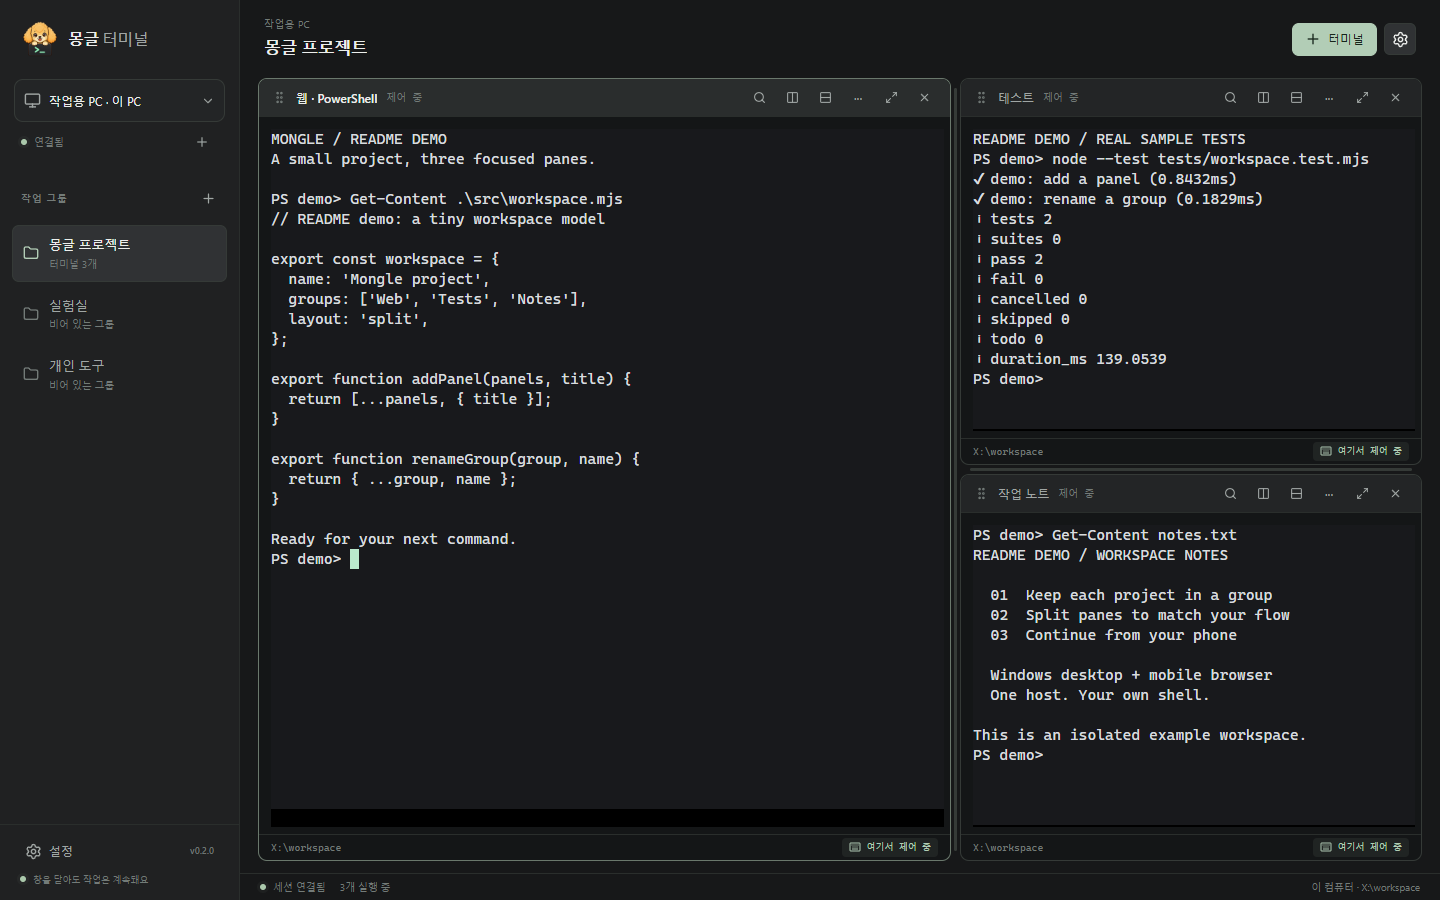
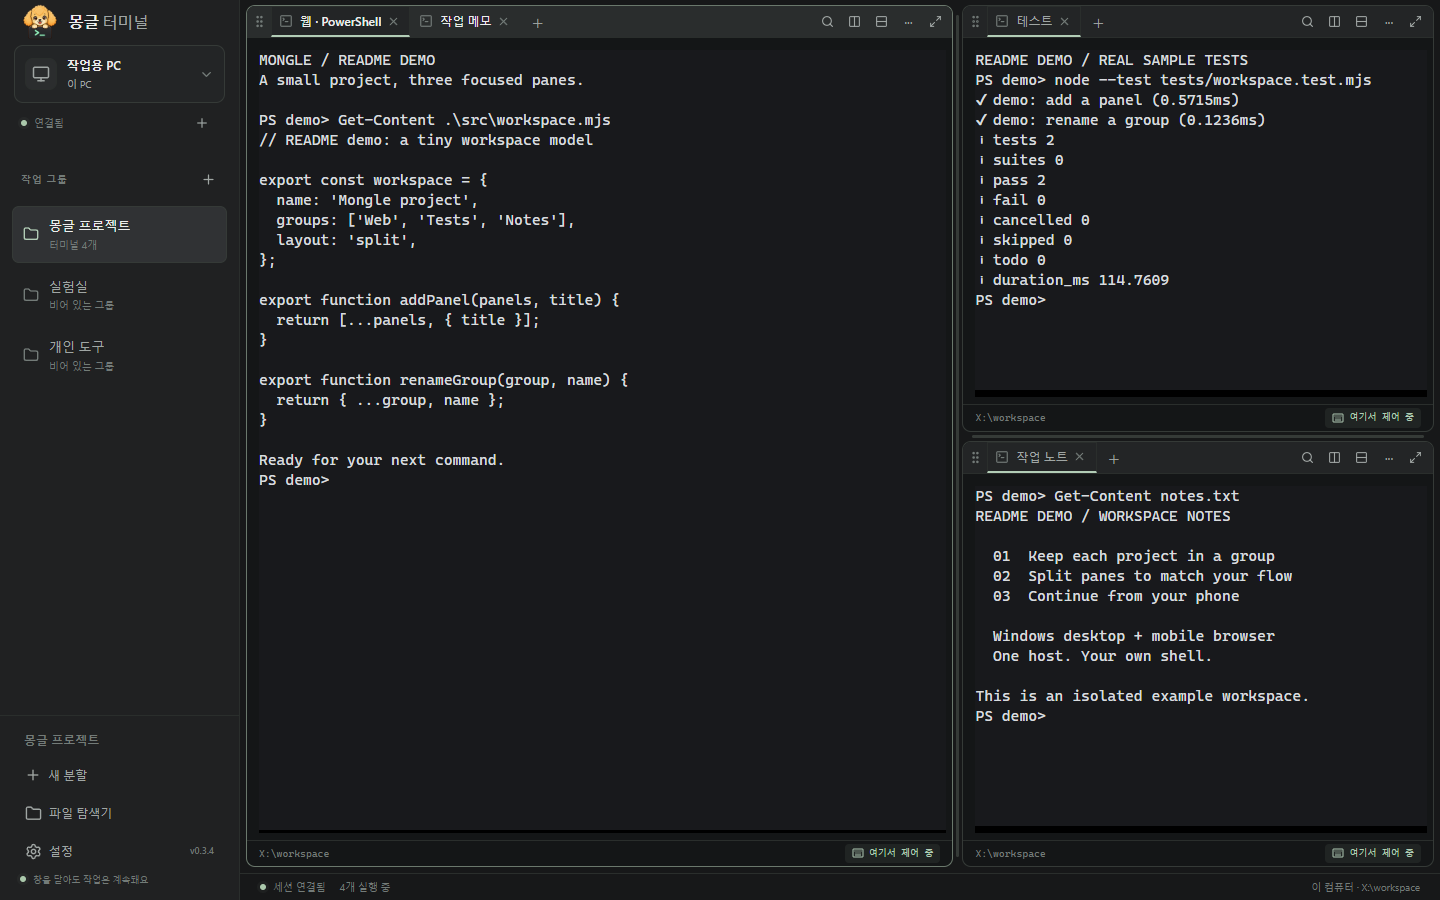
chore: prepare 0.3.4 terminal tabs release

diff --git a/scripts/capture-readme.ts b/scripts/capture-readme.ts
@@ -139,22 +139,36 @@ try {
   await renderDemo(desktop, 0, 'web');
   await renderDemo(desktop, 1, 'tests');
   await renderDemo(desktop, 2, 'notes');
+  // Show a real additional session inside the first split region.
+  const firstTerminal=host.getState().terminals[0],beforeTab=new Set(host.getState().terminals.map(terminal=>terminal.id));
+  await desktop.locator('.pane').first().getByRole('button',{name:'탭 추가',exact:true}).click();
+  await desktop.getByRole('button',{name:'터미널 열기',exact:true}).click();
+  await expect(desktop.locator('.pane')).toHaveCount(4);
+  const extraTab=host.getState().terminals.find(terminal=>!beforeTab.has(terminal.id));assert.ok(extraTab);
+  const extraPane=desktop.locator(`.pane[data-terminal-id="${extraTab.id}"]`);
+  await extraPane.getByText('여기서 제어 중',{exact:true}).waitFor();
+  await extraPane.locator(`#terminal-tab-${extraTab.id}`).dblclick();
+  await desktop.getByLabel('이름',{exact:true}).fill('작업 메모');await desktop.getByRole('button',{name:'저장',exact:true}).click();
+  await renderDemo(desktop,3,'notes');
+  await desktop.locator(`#terminal-tab-${firstTerminal.id}`).click();
+  await expect(desktop.getByRole('tablist')).toHaveCount(3);
+  await expect(desktop.locator('.pane:visible')).toHaveCount(3);
   for (const name of ['실험실', '개인 도구']) {
     await desktop.getByRole('button', { name: '새 그룹', exact: true }).click();
     await desktop.getByLabel('이름', { exact: true }).fill(name);
     await desktop.getByRole('button', { name: '저장', exact: true }).click();
     await desktop.getByRole('heading', { name, exact: true }).waitFor();
   }
-  await desktop.getByRole('button', { name: '몽글 프로젝트 터미널 3개', exact: true }).click();
+  await desktop.getByRole('button', { name: '몽글 프로젝트 터미널 4개', exact: true }).click();
   await desktop.locator('.pane').first().getByText('여기서 제어 중', { exact: true }).waitFor();
-  await desktop.locator('.pane').first().locator('.pane-title').click();
+  await desktop.locator(`#terminal-tab-${firstTerminal.id}`).click();
   await desktop.mouse.move(1400, 50);
   await desktop.evaluate(() => document.fonts.ready);
   await mkdir('docs/assets', { recursive: true });
   await desktop.screenshot({ path: 'docs/assets/desktop.png' });
 
   const mobile = await openSurface(true);
-  await mobile.getByRole('button', { name: '설정', exact: true }).first().click();
+  await mobile.locator('.workspace-header').getByRole('button', { name: '설정', exact: true }).click();
   await mobile.getByRole('button', { name: '어둡게', exact: true }).click();
   await mobile.getByRole('dialog', { name: '설정', exact: true }).getByLabel('터미널 글자 크기', { exact: true }).selectOption('12');
   await mobile.getByRole('button', { name: '설정 닫기' }).click();
@@ -169,7 +183,7 @@ try {
   }
   await mobile.screenshot({ path: 'docs/assets/mobile.png' });
   console.log('Captured real UI: docs/assets/desktop.png (1440×900), docs/assets/mobile.png (390×844).');
-  console.log('Three live shells; sample tests actually ran. No pixels or rendered app DOM edited.');
+  console.log('Four live shells in three split regions, including two tabs; sample tests actually ran. No pixels or rendered app DOM edited.');
 } catch (error) {
   const page = browser?.contexts().at(-1)?.pages().at(-1);
   if (page) {

diff --git a/docs/validation/public-release-0.3.4.md b/docs/validation/public-release-0.3.4.md
@@ -1,0 +1,25 @@
+# 0.3.4 영역별 탭·작업 공간 배포 검증
+
+기준일: 2026-10-01. 사용자 요청에 따라 영역별 터미널 탭·간결한 제목줄·개별 탭 드래그를 0.3.4로 배포한다. 현재 기록은 배포 준비 상태이며 공개 완료와 실제 업데이트 다운로드 결과는 수행 후 추가한다.
+
+- 기존 `codex/terminal-tabs` 작업 브랜치는 최신 `dev`에서 시작했고 별도 기능 커밋 5개를 포함한다. `main`에는 직접 커밋·push하지 않으며 기능 PR → `dev` → `main` 배포 PR을 사용한다.
+- 버전·잠금 파일·README·사용자 안내·CHANGELOG를 0.3.4로 맞췄다. 미배포 사용자 변경은 2026-10-01 항목으로 옮겼다. 공개 배포 저장소와 사용자 확인 후 설치하는 절차를 유지한다.
+- 이전 기능 검증은 [탭·상단 공간](terminal-tabs.md)에 기록했다. 관련 검사 16/16과 개발 Electron 조작 9개 통과, 사용자가 테스트한 개발 창에 셸·배치를 유지해 적용했다.
+
+## 배포 전 확인
+
+- 타입·빌드·배포 문서 검사가 통과했다. 전체 회귀는 Windows Job 제한 밖에서 **300개 중 289 통과·실패 0·선택 실행 11 생략**했다. 약 286초. `test-results/release-034/regression.log`.
+- `release-public-0-3-4`에 설치본·ZIP·blockmap·latest.yml·SHA256SUMS를 생성했다. 번들 네이티브 모듈·아이콘·ZIP 필수 파일·업데이트 메타데이터·해시 검사가 통과했다. `test-results/release-034/package.log`.
+- 실제 **0.3.4 패키지**의 네 방향 자기 영역 탭 분리·비활성 탭·다른 영역 병합·취소·영역 전체 이동·760px 창·새로고침·동일 셸 유지 **9개 시나리오가 통과**했다. OwnerPipe와 preload를 사용했으며 시험 창·호스트는 정상 종료했다. `test-results/e2e/public-release-034-tabs/result.json`.
+- 실제 패키지의 PowerShell 입력·취소·저장 후 정상 종료·재실행 복원 **1/1 통과**했다(47.2초). `test-results/e2e/public-release-034/full-exit-result.json`.
+- README 데스크톱·모바일 이미지를 새 UI로 촬영했다. 실제 격리 HostCore·Windows 셸·Chrome을 사용하고 첫 분할 영역에 탭 두 개를 표시한다. 예시 테스트 결과는 프로젝트 전체 회귀 결과와 구분한다. [촬영 조건](../assets/screenshots.md).
+
+패키지 시험 프로필은 TEMP 아래에 생성했으며 실사용 호스트·인증 정보·Tailscale Serve를 변경하지 않았다. 실제 구버전 NSIS 설치본의 교체·재실행을 수행한 검증은 아니다.
+
+## 공개 게시와 업데이트
+
+공개 설치본·ZIP·blockmap·latest.yml·SHA256SUMS는 검증 후 공개한다. 버전 태그는 배포 PR이 병합된 `main` 커밋을 가리키며, 공개 바이너리를 같은 버전으로 덮어쓰지 않는다.
+
+## 남은 범위
+
+사용자의 기존 NSIS 설치본 교체·실물 모바일·다른 PC 사용자 확인은 별도다. 자동 다운로드 후 사용자가 **설치 후 다시 시작**을 선택하고 작업 저장·정상 종료를 확인해야 설치된다. 공개 배포 자체가 실행 중인 모든 사용자 앱을 즉시 교체한다는 의미는 아니다.

diff --git a/docs/RELEASING.md b/docs/RELEASING.md
@@ -1,6 +1,6 @@
 # 배포와 자동 업데이트
 
-기준 버전: **0.3.3 Windows 미리보기**. 소스는 비공개로 유지하고 [배포 전용 공개 저장소](https://github.com/bokjk/mongle-terminal-releases/releases/latest)에 설치 파일과 업데이트 메타데이터를 게시한다. 코드 서명과 프로젝트의 오픈소스 라이선스는 아직 추가하지 않았다. 현재 공개 배포·다운로드 검증 결과는 [0.3.3 검증](validation/public-release-0.3.3.md), 공개 주소 전환 결과는 [0.3.1 검증](validation/public-release-0.3.1.md)을 확인한다.
+기준 버전: **0.3.4 Windows 미리보기**. 소스는 비공개로 유지하고 [배포 전용 공개 저장소](https://github.com/bokjk/mongle-terminal-releases/releases/latest)에 설치 파일과 업데이트 메타데이터를 게시한다. 코드 서명과 프로젝트의 오픈소스 라이선스는 아직 추가하지 않았다. 0.3.4 배포 준비·검증 결과는 [0.3.4 검증](validation/public-release-0.3.4.md), 이전 공개 배포는 [0.3.3 검증](validation/public-release-0.3.3.md), 공개 주소 전환 결과는 [0.3.1 검증](validation/public-release-0.3.1.md)을 확인한다.
 
 ## 배포 경로와 기존 사용자 전환
 
@@ -50,8 +50,8 @@ npm.cmd run typecheck
 npx.cmd tsx --test --test-concurrency=1 tests/**/*.test.ts
 node --import tsx scripts/package.ts --output release-candidate
 # CHANGELOG의 현재 버전 항목을 검토해 release-candidate/RELEASE-NOTES.md로 저장
-powershell.exe -NoProfile -File scripts/publish-release.ps1 -Version 0.3.3 -OutputDir release-candidate -CheckOnly
-powershell.exe -NoProfile -File scripts/publish-release.ps1 -Version 0.3.3 -OutputDir release-candidate
+powershell.exe -NoProfile -File scripts/publish-release.ps1 -Version 0.3.4 -OutputDir release-candidate -CheckOnly
+powershell.exe -NoProfile -File scripts/publish-release.ps1 -Version 0.3.4 -OutputDir release-candidate
 ```
 
 `--output`은 프로젝트 아래 `release` 또는 `release-<이름>`을 받는다. 실사용 앱이 있는 `release/`를 덮어쓰지 않는다. `package.ts`는 토큰이 있어도 게시하지 않는다. 게시 스크립트는 지정된 공개 저장소만 대상으로 삼아 체크섬을 확인하고 초안만 생성·갱신한다. 태그 워크플로의 artifact를 내려받았다면 동봉된 `RELEASE-NOTES.md`를 사용한다.

diff --git a/docs/assets/screenshots.md b/docs/assets/screenshots.md
@@ -1,10 +1,10 @@
 # README 화면 캡처
 
-`desktop.png`와 `mobile.png`는 몽글터미널 v0.2.0의 실제 웹 UI와 실제 Windows PowerShell을 사용해 촬영한 화면입니다. 픽셀 편집, 앱 화면의 DOM 교체, 상태 응답 조작은 하지 않았습니다.
+`desktop.png`와 `mobile.png`는 몽글터미널 v0.3.4의 실제 웹 UI와 실제 Windows PowerShell을 사용해 촬영한 화면입니다. 픽셀 편집, 앱 화면의 DOM 교체, 상태 응답 조작은 하지 않았습니다.
 
 | 이미지 | 캡처 조건 |
 | --- | --- |
-| `desktop.png` | Chrome 1440 × 900, 어두운 테마, 3개 터미널 분할 |
+| `desktop.png` | Chrome 1440 × 900, 어두운 테마, 3개 분할 영역·4개 셸. 첫 영역에 독립된 탭 두 개와 마지막 탭 뒤 + |
 | `mobile.png` | Chrome 모바일 에뮬레이션 390 × 844, 12px 글꼴, 같은 호스트의 첫 번째 터미널 |
 
 터미널 내용은 README를 위한 **예시 프로젝트**입니다. 화면의 테스트 2개는 예시 프로젝트의 패널 추가·그룹 이름 변경 함수를 실제 Node 테스트 러너로 실행한 결과이며, 몽글터미널 전체 회귀 검사 결과를 나타내지 않습니다. 모바일 이미지는 반응형 화면 설명용입니다. 실제 휴대폰, 소프트 키보드, Tailscale 통신을 검증했다는 의미는 아닙니다.
@@ -23,4 +23,4 @@ npx tsx scripts/capture-readme.ts
 
 PowerShell은 `-NoProfile`로 실행하고 명령 기록 저장을 끕니다. 기존 사용자 호스트·셸·인증 데이터·Tailscale 설정을 사용하지 않습니다. 종료 시 자신이 만든 브라우저와 호스트를 닫고, 소유한 드라이브 매핑과 이번 실행의 격리 폴더만 확인 후 제거합니다.
 
-2026-09-29에 재생성 스크립트 실행과 타입 검사를 통과했고, 두 이미지를 직접 열어 예시 출력·연결 상태·개인 정보 미노출을 확인했습니다.
+2026-10-01에 0.3.4 탭·상단 UI에 맞춰 재생성했습니다. 여러 탭이 있을 때 이름 변경 대상을 해당 탭 ID로 지정하고 모바일 설정은 표시된 상단 버튼으로 열도록 촬영 스크립트를 갱신했습니다. 검증 결과는 [0.3.4 배포 기록](../validation/public-release-0.3.4.md)에 정리합니다.

diff --git a/docs/IMPLEMENTATION-STATUS.md b/docs/IMPLEMENTATION-STATUS.md
@@ -1,6 +1,6 @@
 # 구현·검증 상태
 
-기준일: 2026-10-01 · 소스 버전: 0.3.3 · **0.3.3 Windows 미리보기 공개 배포 완료, 탭·상단 개선은 미배포**. 소스는 비공개로 유지하고 별도 공개 저장소에서 설치본을 배포한다. 기존 사용자 실행본을 자동으로 교체한 것은 아니며 0.3.0 이하는 한 번 수동 설치해야 한다. [0.3.3 배포·검증 결과](validation/public-release-0.3.3.md)
+기준일: 2026-10-01 · 소스 버전: 0.3.4 · **탭·상단 개선의 0.3.4 배포 준비 중, 공개 latest는 0.3.3**. 소스는 비공개로 유지하고 별도 공개 저장소에서 설치본을 배포한다. 기존 사용자 실행본을 자동으로 교체한 것은 아니며 0.3.0 이하는 한 번 수동 설치해야 한다. [0.3.4 배포·검증 결과](validation/public-release-0.3.4.md) · [이전 0.3.3 배포](validation/public-release-0.3.3.md)
 
 Windows 11 x64에서 실제 PowerShell/ConPTY, Electron 앱과 Chrome 브라우저로 확인했다. 모바일 화면 크기의 브라우저 시험과 실물 휴대폰 시험은 구분한다. 초기 설계·오픈소스 분석은 `01`~`06` 문서에 보존하고, 아래를 현재 구현의 기준으로 삼는다.
 

diff --git a/CHANGELOG.md b/CHANGELOG.md
@@ -4,6 +4,10 @@
 
 ## 미배포 변경
 
+현재 없음.
+
+## [0.3.4] - 2026-10-01
+
 ### 추가·개선
 
 - 기존 드래그 분할을 유지하면서 각 분할 영역 안에 터미널 탭과 +를 추가했습니다. 각 영역은 독립적으로 탭을 전환하며, 탭 구성은 호스트에 저장하고 선택한 탭은 컴퓨터·그룹·영역별로 현재 화면에 기억합니다.
@@ -15,7 +19,7 @@
 
 ### 확인 범위
 
-- 타입·빌드·배포 문서 검사와 실제 호스트·셸을 연결한 Chrome 회귀가 통과했습니다. 영역별 탭 전환·드래그·닫기·저장/복원·입력과 제어권 유지, PC·모바일 화면을 확인했습니다. 전체 검사 결과와 환경 제약은 [검증 기록](docs/validation/terminal-tabs.md)에 구분합니다. 설치본 교체·공개 배포와 실물 모바일 검증은 미수행입니다.
+- 실제 셸을 연결한 Chrome과 개발 Electron에서 탭 전환·네 방향 드래그·병합·취소·셸 유지·좁은 창을 확인했습니다. 기존 사용자의 NSIS 설치본 교체와 실물 모바일 검증은 별도입니다.
 
 ## [0.3.3] - 2026-09-30
 

diff --git a/docs/validation/terminal-tabs.md b/docs/validation/terminal-tabs.md
@@ -2,6 +2,8 @@
 
 검증일: 2026-10-01 · 소스 버전: 0.3.3 · 작업 브랜치: `codex/terminal-tabs` · **미배포 소스 변경**
 
+이 문서는 개발 단계의 검증 기록이다. 이후 0.3.4의 전체 회귀·실제 패키지·공개 배포 결과는 [0.3.4 배포 기록](public-release-0.3.4.md)에 구분한다.
+
 ## 변경 범위
 
 기존 중첩 드래그 분할을 유지하고 **각 분할 영역 안에 독립된 터미널 탭**을 표시한다. 영역의 +는 그 영역에 새 탭을 추가한다. 탭 전환은 옆 영역의 선택·분할 비율·배치를 바꾸지 않는다. 좌우·상하 분할 버튼과 왼쪽 아래 새 분할은 새 영역을 만든다. 탭 제목 드래그는 탭 하나를 이동하고, 점 손잡이 드래그는 해당 영역의 모든 탭을 함께 이동하거나 교환한다. 그룹 전체의 탭/분할 보기 전환은 제공하지 않는다.
